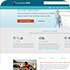
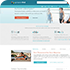
CSS

diff --git a/frontend/site.html b/frontend/site.html
@@ -167,9 +167,9 @@
                             <div class="ts_preview_wrapper">
                                 <ul class="ts_preview">
                                     <li><img src="app/img/sitetheme/sitetheme_blank.jpg" alt="Thumb 1" /></li>
-                                    <li><img src="app/img/sitetheme/sitetheme_01.jpg" alt="Thumb 2" /></li>
-                                    <li><img src="app/img/sitetheme/sitetheme_02.jpg" alt="Thumb 3" /></li>
-                                    <li><img src="app/img/sitetheme/sitetheme_03.jpg" alt="Thumb 4" /></li>
+                                    <li><img src="app/img/sitetheme/sitetheme_01.png" alt="Thumb 2" /></li>
+                                    <li><img src="app/img/sitetheme/sitetheme_02.png" alt="Thumb 3" /></li>
+                                    <li><img src="app/img/sitetheme/sitetheme_03.png" alt="Thumb 4" /></li>
                                     <li><img src="app/img/sitetheme/sitetheme_04.jpg" alt="Thumb 5" /></li>
                                     <li><img src="app/img/sitetheme/sitetheme_05.jpg" alt="Thumb 6" /></li>
                                     <li><img src="app/img/sitetheme/sitetheme_06.jpg" alt="Thumb 7" /></li>
@@ -409,8 +409,8 @@
 			$(function() {
 				
 				  $('.site_themebox').thumbnailSlider({
-					thumb_width	: 300,
-					thumb_height: 270,
+					thumb_width	: 383,
+					thumb_height: 260,
 					speed		: 300
 				  });
 				

diff --git a/frontend/app/style.css b/frontend/app/style.css
@@ -548,8 +548,10 @@ ul.site_theme_ul li.ts_thumbnails span{ background:transparent url(img/triangle.
 	box-shadow:0px 0px 15px rgba(0,0,0,0.3);
 }
 ul.ts_preview			{ position:absolute; left:0px; top:0px; margin:0; padding:0; list-style-type:none;}
-ul.ts_preview li		{ float:left; margin:0; padding:0; width:300px; height:270px; overflow:hidden; }
-ul.ts_preview li img	{ display:block; width:300px; margin:0; padding:0;}
+ul.ts_preview li		{ position:relative; float:left; margin:0; padding:0; overflow:hidden;  }
+ul.ts_preview li img	{ display:block; width:383px; height:260px; margin:0; padding:0;}
+
+/* ul.ts_preview li:after{ display:block; position:absolute; right:0; top:0; width:176px; height:270px; background:url(img/iOS.png) no-repeat; background-color:transparent; content:'';} */
 
 
 /* === Logo and Web Icon === */
